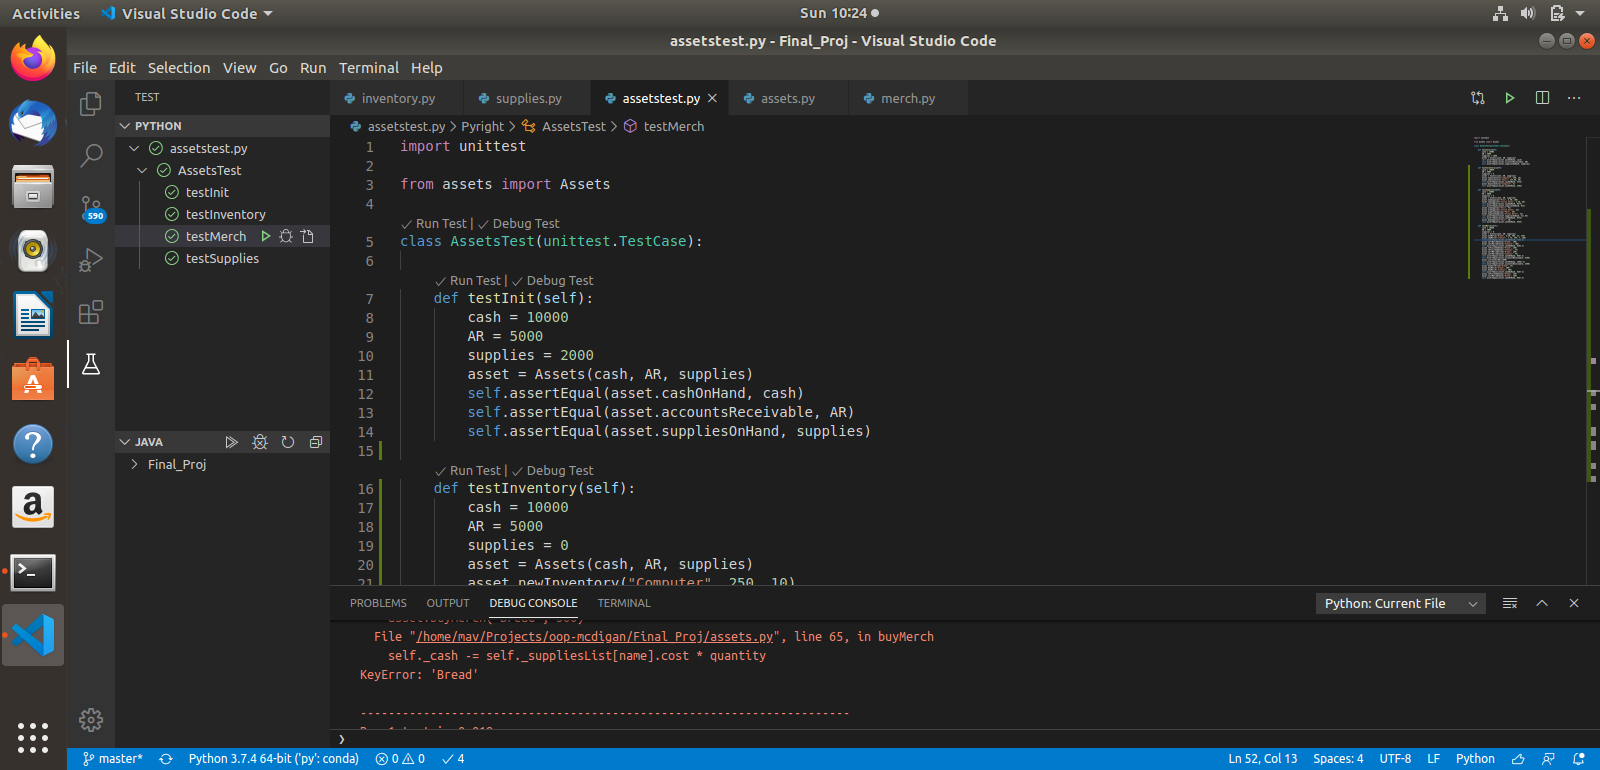
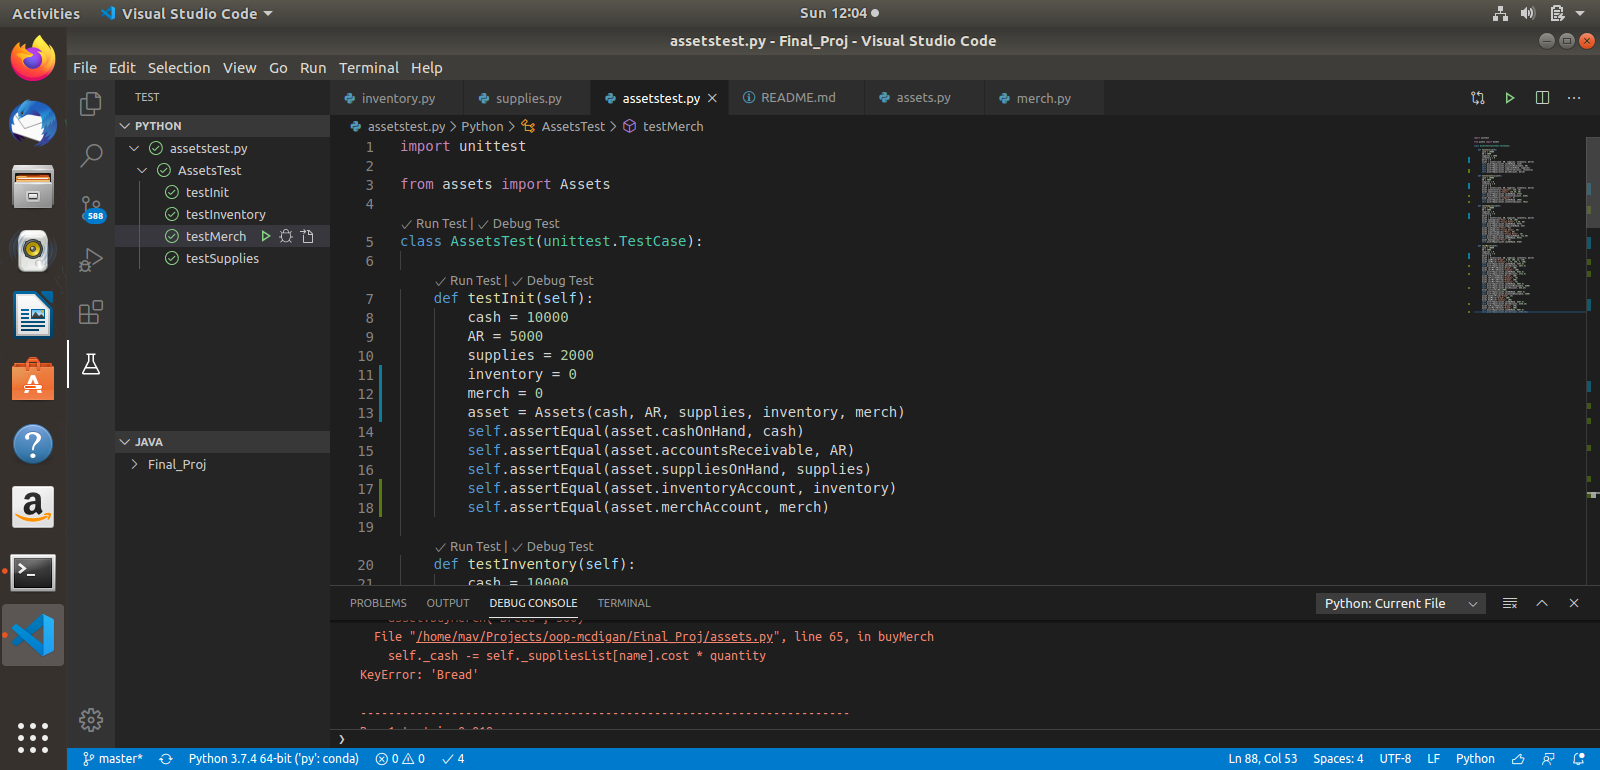
The final version of the assets class with working tests and Read me file

diff --git a/Final_Proj/assets.py b/Final_Proj/assets.py
@@ -3,7 +3,7 @@ from supplies import Supplies
 from merch import Merch
 
 class Assets:
-    def __init__(self, cash : float, accRec : float, supplies : float):
+    def __init__(self, cash : float, accRec : float, supplies : float, inventory : float, merch : float):
         if cash < 0.0:
             cash = 0.0
         self._cash = cash
@@ -13,6 +13,15 @@ class Assets:
         if supplies < 0.0:
             supplies = 0.0
         self._supplies = supplies
+
+        if merch < 0.0:
+            merch = 0.0
+        self._merch = merch
+
+        if inventory < 0.0:
+            inventory = 0.0
+        self._inventory = inventory
+
 
         self._inventoryList = {}
         self._suppliesList = {}
@@ -30,39 +39,58 @@ class Assets:
     def suppliesOnHand(self) -> float:
         return self._supplies
 
+    @property
+    def inventoryAccount(self) -> float:
+        return self._inventory
+
+    @property
+    def merchAccount(self) -> float:
+        return self._merch
+
     def newInventory(self, name : str, cost : float, quantity : int) -> None:
         if name not in self._inventoryList:
             self._inventoryList.update({name : Inventory(name, cost, quantity)})
-            self._cash -= cost * quantity
+            price = cost * quantity
+            self._cash -= price
+            self._inventory += price
 
     def newSupplies(self, name : str, cost : float, quantity : int, using : int = 0) -> None:
         if name not in self._suppliesList:
-            self._cash -= cost * quantity
+            price = cost * quantity
+            self._cash -= price
             self._suppliesList.update({name : Supplies(name, cost, quantity, using)})
-            self._supplies += cost * quantity
+            self._supplies += price
 
     def newMerch(self, name : str, cost : float, quantity : int, sellPrice : float, inProcess : int = 0) -> None:
         if name not in self._merchList:
-            self._cash -= cost * quantity
+            price = cost * quantity
+            self._cash -= price
             self._merchList.update({name : Merch(name, cost, quantity, sellPrice, inProcess)})
+            self._merch += price
 
     def buyInventory(self, name : str, quantity : int) -> None:
         if quantity > 0:
             self._inventoryList[name].buyMore(quantity)
-            self._cash -= self._inventoryList[name].cost * quantity
+            price = self._inventoryList[name].cost * quantity
+            self._cash -= price
+            self._inventory += price
 
     def useSupplies(self, name : str, quantity : int) -> None:
         self._suppliesList[name].startUsing(quantity)
 
     def buySupplies(self, name : str, quantity : int) -> None:
         if quantity > 0:
+            price = self._suppliesList[name].cost * quantity
             self._suppliesList[name].buyMore(quantity)
-            self._cash -= self._suppliesList[name].cost * quantity
+            self._cash -= price
+            self._supplies += price
 
     def buyMerch(self, name : str, quantity : int) -> None:
         if quantity > 0:
+            price = self._merchList[name].cost * quantity
             self._merchList[name].buyMore(quantity)
-            self._cash -= self._merchList[name].cost * quantity
+            self._cash -= price
+            self._merch += price
 
     def newSellPrice(self, name : str, price : float) -> None:
         self._merchList[name].setSellPrice(price)
@@ -75,10 +103,12 @@ class Assets:
         self._merchList[name].finishGoods(amount)
 
     def sellMerchOnCash(self, name : str, amount : int) -> None:
+        self._merch -= self._merchList[name].getCost(amount)
         self._cash += self._merchList[name].getCash(amount)
         self._merchList[name].sellGoods(amount)
 
     def sellMerchOnCred(self, name : str, amount : int) -> None:
+        self._merch -= self._merchList[name].getCost(amount)
         self._accRec += self._merchList[name].getCash(amount)
         self._merchList[name].sellGoods(amount)
 

diff --git a/Final_Proj/assetstest.py b/Final_Proj/assetstest.py
@@ -8,27 +8,37 @@ class AssetsTest(unittest.TestCase):
         cash = 10000
         AR = 5000
         supplies = 2000
-        asset = Assets(cash, AR, supplies)
+        inventory = 0
+        merch = 0
+        asset = Assets(cash, AR, supplies, inventory, merch)
         self.assertEqual(asset.cashOnHand, cash)
         self.assertEqual(asset.accountsReceivable, AR)
         self.assertEqual(asset.suppliesOnHand, supplies)
+        self.assertEqual(asset.inventoryAccount, inventory)
+        self.assertEqual(asset.merchAccount, merch)
 
     def testInventory(self):
         cash = 10000
         AR = 5000
         supplies = 0
-        asset = Assets(cash, AR, supplies)
+        inventory = 0
+        merch = 0
+        asset = Assets(cash, AR, supplies, inventory, merch)
         asset.newInventory("Computer", 250, 10)
         asset.newInventory("Chair", 125.50, 30)
         self.assertEqual(asset.cashOnHand, 3735)
+        self.assertEqual(asset.inventoryAccount, 6265)
         asset.buyInventory("Computer", 3)
         self.assertEqual(asset.cashOnHand, 2985)
+        self.assertEqual(asset.inventoryAccount, 7015)
 
     def testSupplies(self):
         cash = 10000
         AR = 5000
         supplies = 0
-        asset = Assets(cash, AR, supplies)
+        inventory = 0
+        merch = 0
+        asset = Assets(cash, AR, supplies, inventory, merch)
         asset.newSupplies("Pens", 4.50, 100)
         asset.newSupplies("Sticky Notes", 3.50, 50)
         self.assertEqual(asset.cashOnHand, 9375)
@@ -46,19 +56,24 @@ class AssetsTest(unittest.TestCase):
         cash = 10000
         AR = 5000
         supplies = 0
-        asset = Assets(cash, AR, supplies)
+        inventory = 0
+        merch = 0
+        asset = Assets(cash, AR, supplies, inventory, merch)
         asset.newMerch("Bread", 6.50, 300, 13, 150)
         asset.newMerch("Cookies", 2.75, 250, 7, 100)
         self.assertEqual(asset.cashOnHand, 7362.5)
+        self.assertEqual(asset.merchAccount, 2637.5)
         asset.sellMerchOnCash("Bread", 100)
         asset.sellMerchOnCash("Cookies", 100)
         self.assertEqual(asset.cashOnHand, 9362.5)
+        self.assertEqual(asset.merchAccount, 1712.5)
         asset.toFinishedGoods("Bread", 100)
         asset.toFinishedGoods("Cookies", 75)
         asset.sellMerchOnCred("Bread", 100)
         asset.sellMerchOnCash("Cookies", 75)
         self.assertEqual(asset.cashOnHand, 9887.5)
         self.assertEqual(asset.accountsReceivable, 6300)
+        self.assertEqual(asset.merchAccount, 856.25)
         asset.collectAccRec(1000)
         self.assertEqual(asset.cashOnHand, 10887.5)
         self.assertEqual(asset.accountsReceivable, 5300)
@@ -66,6 +81,8 @@ class AssetsTest(unittest.TestCase):
         asset.buyMerch("Bread", 300)
         asset.buyMerch("Cookies", 200)
         self.assertEqual(asset.cashOnHand, 8387.5)
+        self.assertEqual(asset.merchAccount, 3356.25)
         asset.toFinishedGoods("Bread", 150)
         asset.sellMerchOnCash("Bread", 100)
         self.assertEqual(asset.cashOnHand, 9887.5)
+        self.assertEqual(asset.merchAccount, 2706.25)

diff --git a/Final_Proj/merch.py b/Final_Proj/merch.py
@@ -43,3 +43,8 @@ class Merch(Inventory):
         if amount > self._quantity:
             amount = self._quantity
         return self._sellPrice * amount
+
+    def getCost(self, amount : int) -> float:
+        if amount > self._quantity:
+            amount = self._quantity
+        return self._cost * amount

diff --git a/Final_Proj/README.md b/Final_Proj/README.md
@@ -5,8 +5,8 @@
 
 ## Assignment
 ---
-- Create a super class from which other classes will inherit
-- Create two sub classes with unique properties
+- Create an object oriented hierarchy
+- Use OOP concepts like polymorphism and inheritance
 - Implement a design pattern
 
 <br>
@@ -69,9 +69,26 @@
 - Initializer:
   - Making sure that the assets class initializer is properly working
 - Inventory:
-  - Making sure the cash is properly being recorded as transactions take place
-    - 
-- Merchandise:
-  - M
+  - Making sure the cash and inventory accounts are being properly recorded as transactions take place
+  - The transactions:
+    - Set up two accounts for internal inventory, computer and chairs
+    - Purchase more chairs
 - Supplies:
-  - M
+  - Making sure the cash and supplies accounts are being properly recorded as transactions take place
+  - The transactions:
+    - Set up two accounts for the supplies, pens and sticky notes
+    - Put some of the pens and sticky notes to use
+    - Expense some of the pens and sticky notes
+    - Buy more pens
+- Merchandise:
+  - Making sure the cash, accounts receivable, and merchandise accounts are all being properly recorded
+  - The Transactions:
+    - Set up two accounts for the merchandise, bread and cookies
+    - Sell some of the bread and cookies
+    - Move some of the in process goods to finished product
+    - Sell bread on credit and cookies on cash
+    - Collect some of the accounts receivable
+    - Change the selling price of the bread
+    - Buy in process materials for bread and cookies
+    - Move some of the in process bread to finished product
+    - Sell some of the bread
